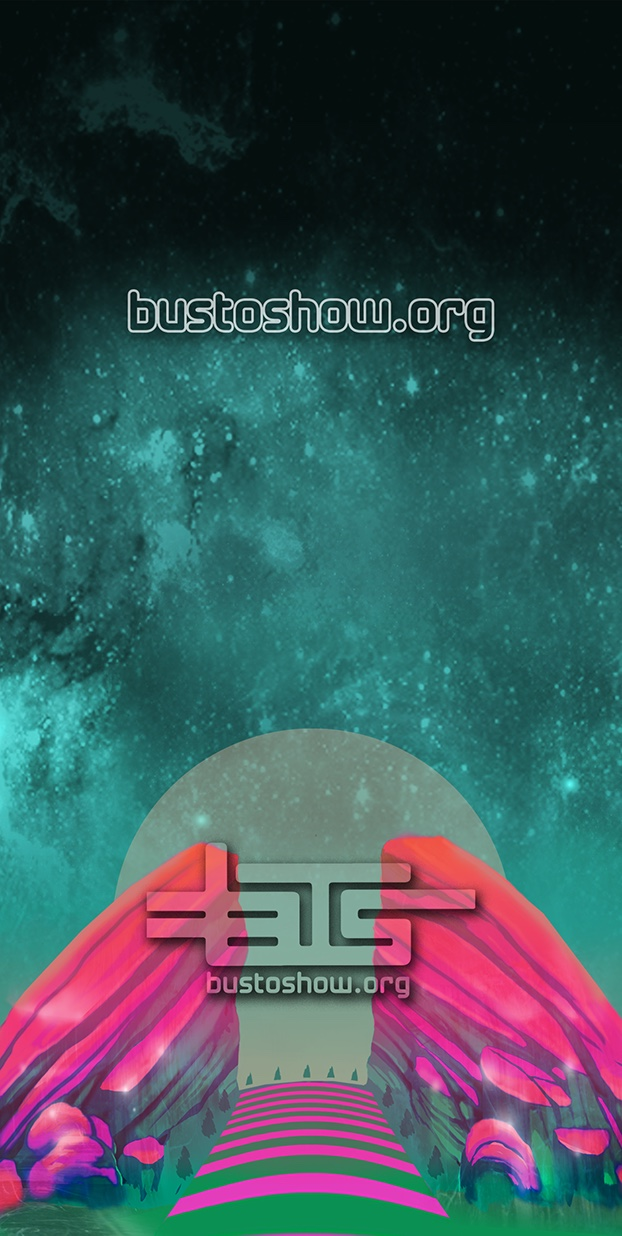
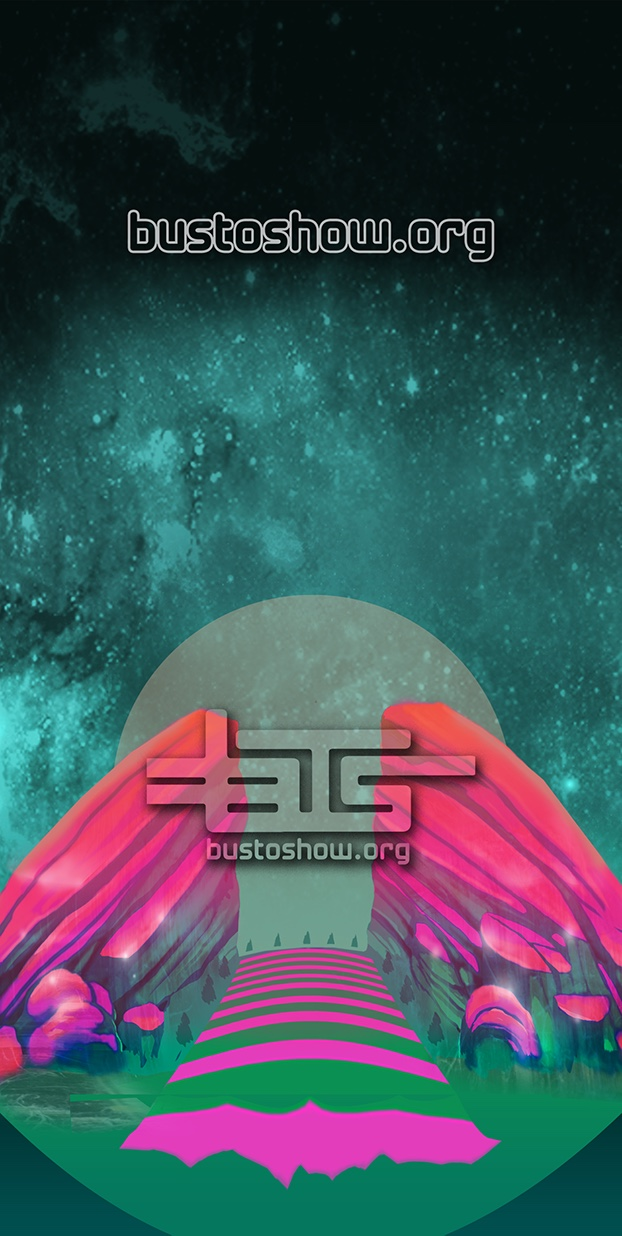
mobile splash is looking good and working properly.

diff --git a/src/Components/Loading.js b/src/Components/Loading.js
@@ -1,7 +1,8 @@
 import React from 'react'
 import '../App.css';
 import spacebus from '../Images/bus-to-show-space-bus-forward.png'
-import Zoom from 'react-reveal/Zoom';
+import Zoom from 'react-reveal/Zoom'
+import MediaQuery from 'react-responsive'
 
 
 const Loading = (props) => {
@@ -9,40 +10,69 @@ let bus2 = true
 let bus3 = true
 
   return (
-    <div className='Loading loading-image'>
-      <div className="row">
-        <div className="col-md-12 loading-header">
-          <Zoom right opposite when={props.displayBus}>
-            <img className='render-opacity' id="bus1" src={spacebus} alt="bts-logo" width='372' height='300' onClick={props.handleBus}/>
-          </Zoom>
-        </div>
-      </div>
-      <div className='row'>
-        <div className='col-3'>
-        {bus2
-          ?
-          <Zoom right opposite when={props.displayBus}>
-            <img className='pl-4 ml-4' id="bus2" src={spacebus} alt="bts-logo" width='186' height='150' onClick={props.handleBus}/>
-          </Zoom>
-          : ""
-        }
-        </div>
-        <div className='col-2 px-auto mx-auto py-4 my-4'>
-          <button type="button" className="btn-lg btn-outline-light loading-btn" onClick={props.onLoad}>Ride with Us
-          </button>
-        </div>
-        <div className='col-3'>
-        {bus3
-          ?
-          <Zoom right opposite when={props.displayBus}>
-            <img className='pl-4 mr-4' id="bus3" src={spacebus} alt="bts-logo" width='186' height='150' onClick={props.handleBus}/>
-          </Zoom>
-          : ""
-        }
-        </div>
-      </div>
-    </div>
+    <div className=''>
+      {/* // Mobile View */}
+      <MediaQuery maxWidth={767}>
+        <div className='Loading loading-image-mobile'>
+          <div className="row">
+            <div className="col-md-12 loading-header">
+              <Zoom right opposite when={props.displayBus}>
+                <img className='render-opacity' id="bus1" src={spacebus} alt="bts-logo" width='124' height='100' onClick={props.handleBus}/>
+              </Zoom>
+            </div>
+          </div>
+          <div className="row">
+            <div className="col-4">
+            </div>
+              <div className='col-4'>
+                <button type="button" className="btn-sm btn-outline-light loading-btn px-auto mx-auto my-4" onClick={props.onLoad}>Ride with Us
+                </button>
+              </div>
+            <div className="col-4">
+            </div>
+          </div>
 
+        </div>
+      </MediaQuery>
+      {/* // End Mobile View */}
+      {/* // Desktop View */}
+      <MediaQuery minWidth={768}>
+        <div className='Loading loading-image'>
+          <div className="row">
+            <div className="col-md-12 loading-header">
+              <Zoom right opposite when={props.displayBus}>
+                <img className='render-opacity' id="bus1" src={spacebus} alt="bts-logo" width='372' height='300' onClick={props.handleBus}/>
+              </Zoom>
+            </div>
+          </div>
+          <div className='row'>
+            <div className='col-3'>
+            {bus2
+              ?
+              <Zoom right opposite when={props.displayBus}>
+                <img className='pl-4 ml-4' id="bus2" src={spacebus} alt="bts-logo" width='186' height='150' onClick={props.handleBus}/>
+              </Zoom>
+              : ""
+            }
+            </div>
+            <div className='col-2 px-auto mx-auto py-4 my-4'>
+              <button type="button" className="btn-lg btn-outline-light loading-btn" onClick={props.onLoad}>Ride with Us
+              </button>
+            </div>
+            <div className='col-3'>
+            {bus3
+              ?
+              <Zoom right opposite when={props.displayBus}>
+                <img className='pl-4 mr-4' id="bus3" src={spacebus} alt="bts-logo" width='186' height='150' onClick={props.handleBus}/>
+              </Zoom>
+              : ""
+            }
+            </div>
+          </div>
+        </div>
+      </MediaQuery>
+      {/* // End Desktop View */}
+    </div>
   )
 }
 

diff --git a/src/App.css b/src/App.css
@@ -168,6 +168,17 @@ body {
   width: 100vw;
 }
 
+.loading-image-mobile {
+  color: white;
+
+  background: url('./Images/BTS-redrocks-spacebus-mobile-flat.jpg');
+  background-position: top;
+  background-size: cover;
+  background-repeat: no-repeat;
+  height: 100vh;
+  width: 100vw;
+}
+
 .loading-header {
   margin-top: 35vh;
   text-align: center;
